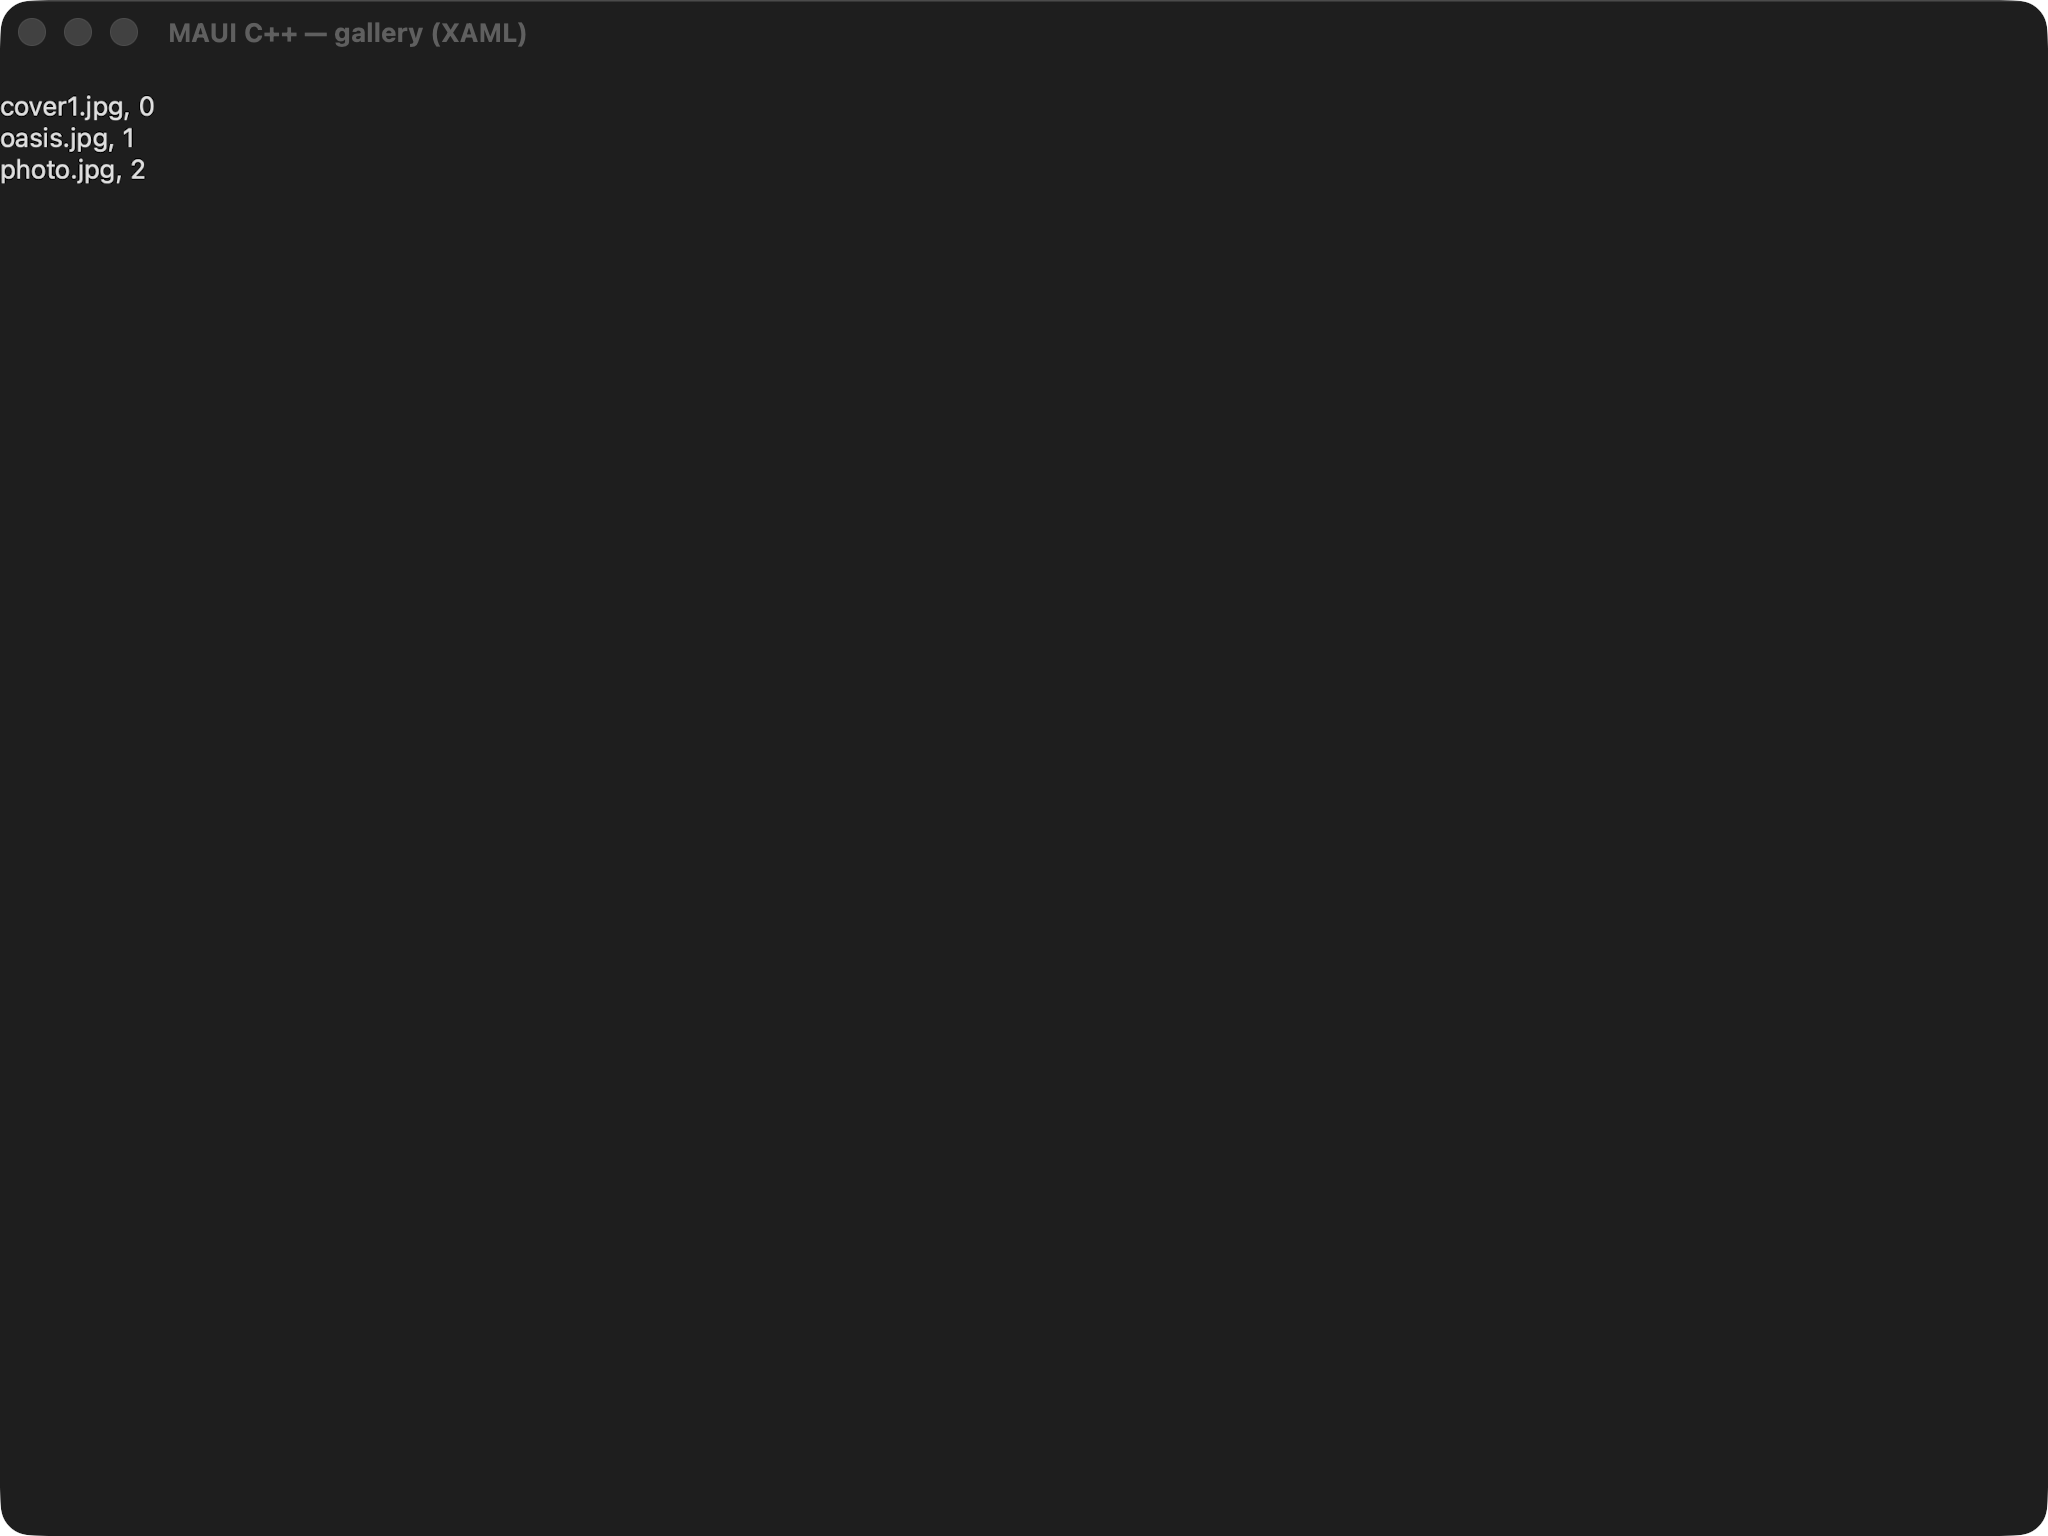
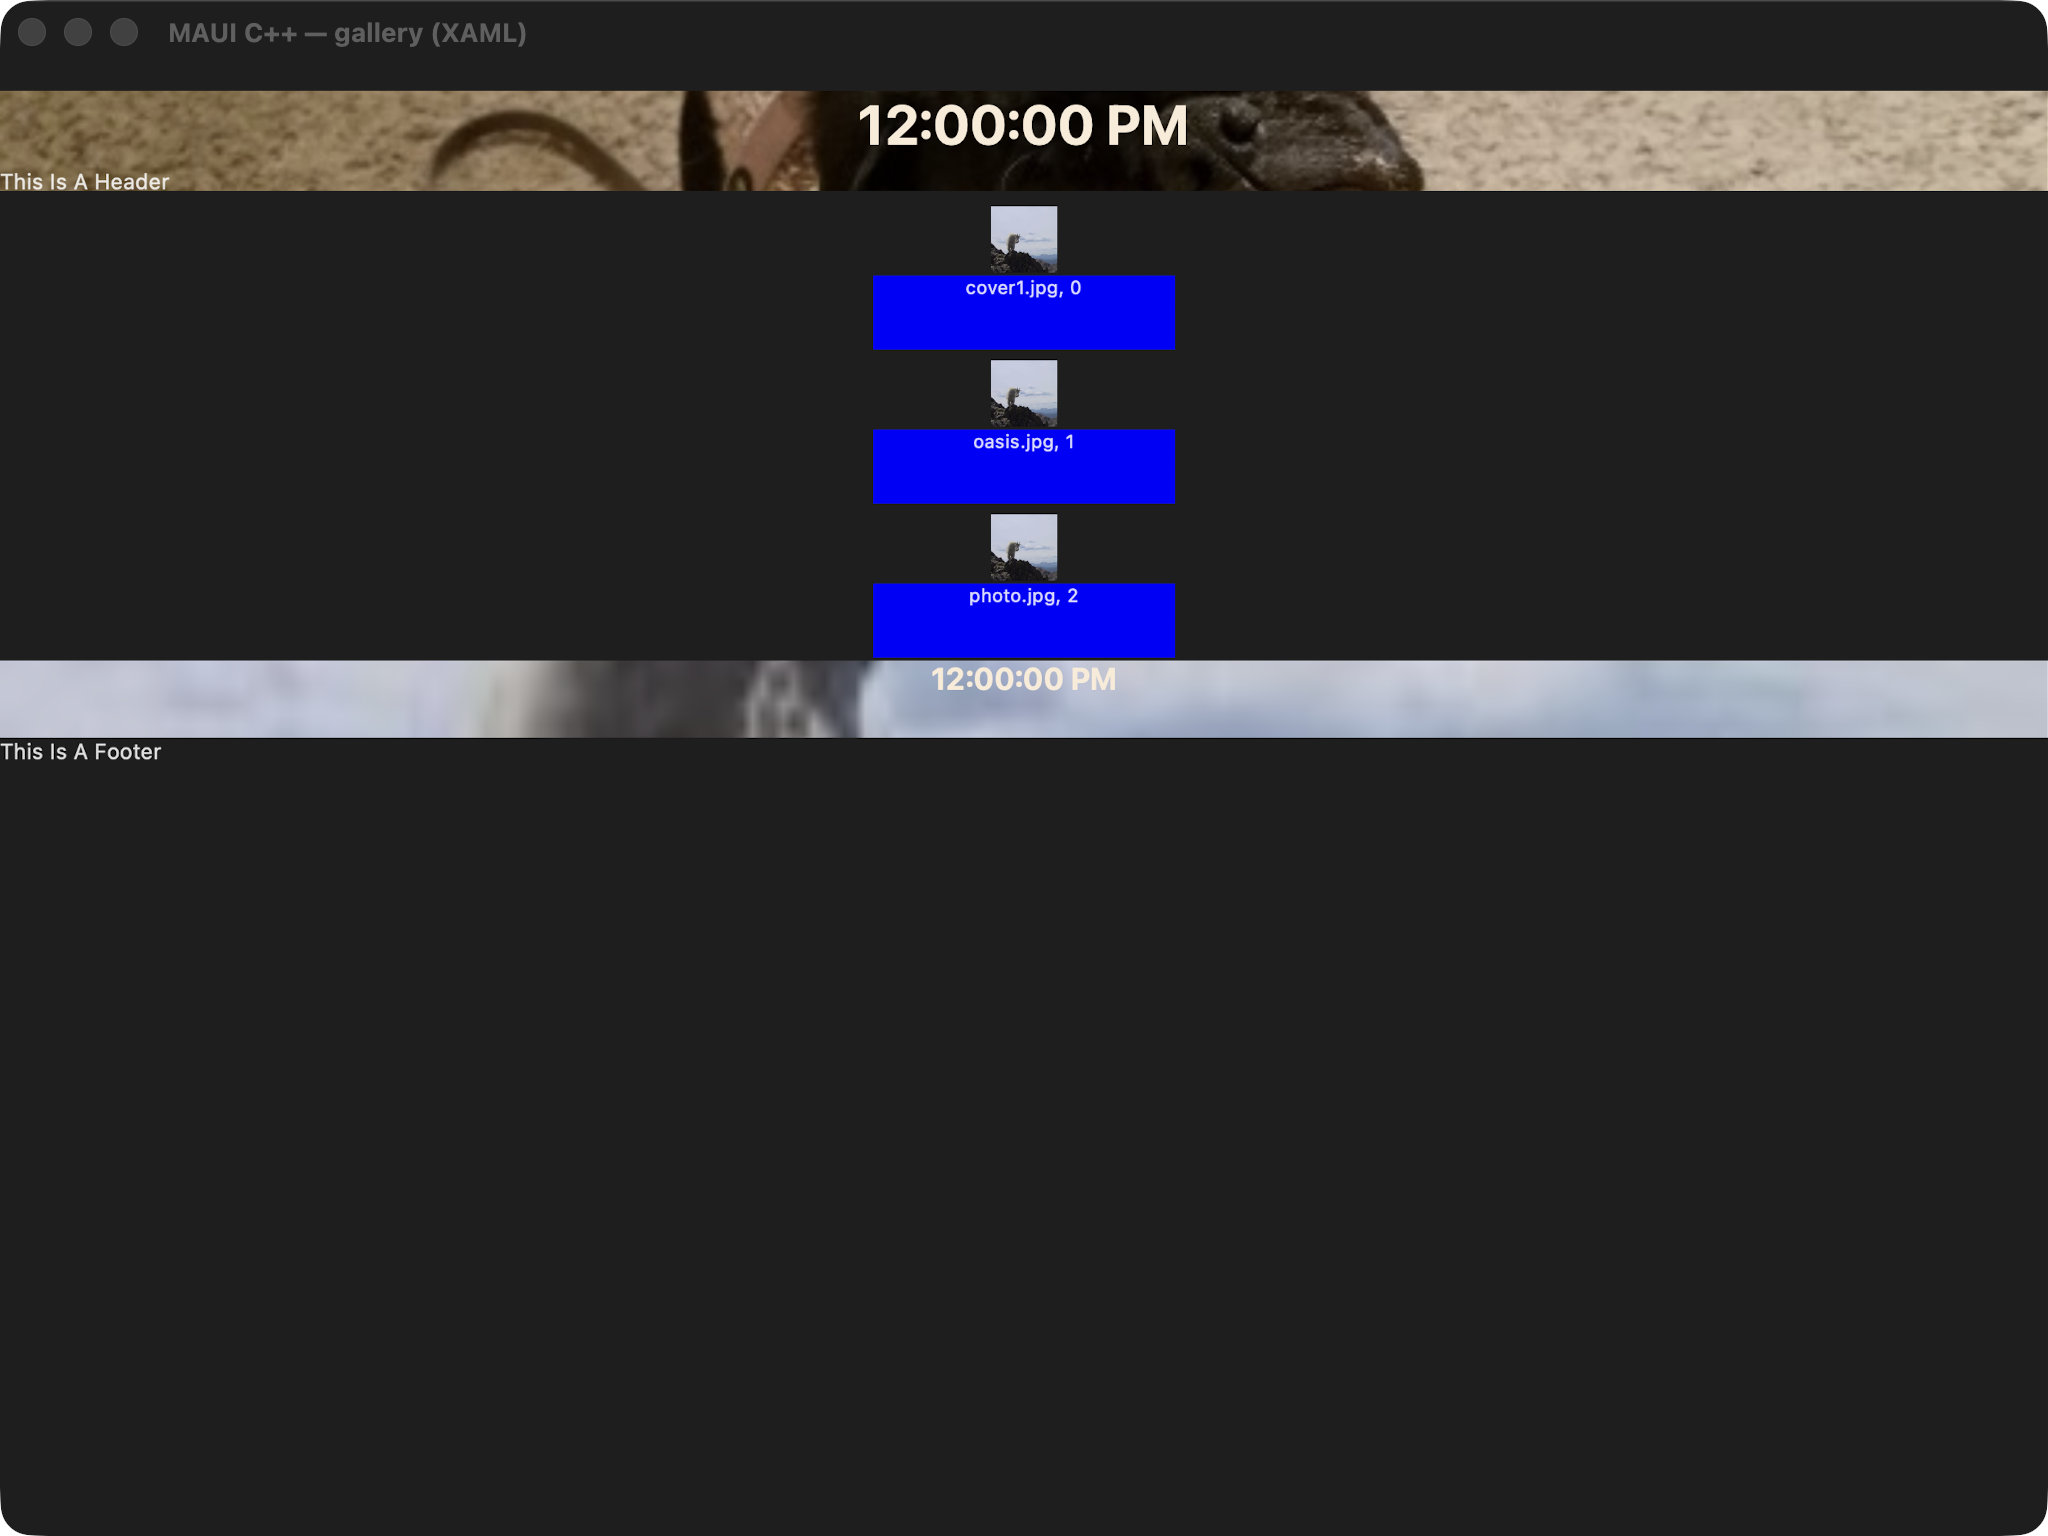
test(xaml): regression coverage for header_footer_template + recapture stale Catalyst PNGs
Investigated the reported header_footer_template bug (CollectionView combining
HeaderTemplate+FooterTemplate+ItemTemplate rendering as a plain unstyled text
list on maccatalyst/xaml). Added loader tests reproducing the exact combination
(bare CollectionView, ContentPage-wrapped, and the real shared-page bytes via
SHARED_PAGES_DIR) — all pass: the runtime loader correctly mints and hydrates
all three DataTemplates independently, including their composite Grid roots.

The actual root cause was already fixed by prior collection_view_handler.mm
(iOS/Catalyst) commits (0ca0346612, 604ed96832, 798512f5bc, 760b8ec90c,
87408bbc4e); the committed captures/maccatalyst/xaml PNGs simply predated that
fix and were never recaptured for this page. Rebuilt gallery_xaml for
maccatalyst and recaptured both themes — header/footer images, times, and
captions, and the templated item cells all now render correctly.

No loader bug found or fixed; this is test coverage + a stale-artifact refresh.

Changed region(s): [[0.0, 0.0312, 1.0, 0.5]]

diff --git a/port/cpp/tests/xaml/loader_tests.cpp b/port/cpp/tests/xaml/loader_tests.cpp
@@ -23,8 +23,11 @@
 #include "maui/xaml/xaml_loader.hpp"
 
 #include <any>
+#include <filesystem>
+#include <fstream>
 #include <functional>
 #include <memory>
+#include <sstream>
 #include <string>
 #include <string_view>
 #include <utility>
@@ -1075,6 +1078,184 @@ namespace
         // still readable after the second stamp exists (no use-after-free / premature teardown).
         EXPECT_EQ(std::dynamic_pointer_cast<controls::label>(first)->text(), "cell");
         EXPECT_EQ(std::dynamic_pointer_cast<controls::label>(second)->text(), "cell");
+    }
+
+    TEST(xaml_loader, collection_view_header_footer_item_templates_all_set)
+    {
+        // Regression for the header_footer_template gallery page: a SINGLE CollectionView combining
+        // HeaderTemplate + FooterTemplate + ItemTemplate (three sibling <DataTemplate> bodies, each
+        // under its own property-element wrapper) must hydrate ALL THREE independently. Before the
+        // fix, only ItemTemplate rendered — Header/FooterTemplate silently failed to mint their
+        // DataTemplate bodies (or all three collapsed onto one template), producing the reported
+        // plain-unstyled-list symptom (no header image/text, no footer image/text).
+        controls::collection_view view;
+        const std::string message = parse_error_message([&] {
+            (void)xaml_loader::load_into(view, R"xml(
+<CollectionView xmlns="http://schemas.microsoft.com/dotnet/2021/maui">
+	<CollectionView.HeaderTemplate>
+		<DataTemplate>
+			<Label Text="header" />
+		</DataTemplate>
+	</CollectionView.HeaderTemplate>
+	<CollectionView.FooterTemplate>
+		<DataTemplate>
+			<Label Text="footer" />
+		</DataTemplate>
+	</CollectionView.FooterTemplate>
+	<CollectionView.ItemTemplate>
+		<DataTemplate>
+			<Label Text="cell" />
+		</DataTemplate>
+	</CollectionView.ItemTemplate>
+</CollectionView>)xml");
+        });
+        EXPECT_EQ(message, "(no xaml_parse_exception thrown)") << message;
+
+        const std::shared_ptr<controls::data_template> header_tmpl = view.header_template();
+        const std::shared_ptr<controls::data_template> footer_tmpl = view.footer_template();
+        const std::shared_ptr<controls::data_template> item_tmpl = view.item_template();
+        ASSERT_NE(header_tmpl, nullptr);
+        ASSERT_NE(footer_tmpl, nullptr);
+        ASSERT_NE(item_tmpl, nullptr);
+        // Distinct data_template instances — no aliasing/collapsing onto a single shared object.
+        EXPECT_NE(header_tmpl.get(), footer_tmpl.get());
+        EXPECT_NE(header_tmpl.get(), item_tmpl.get());
+        EXPECT_NE(footer_tmpl.get(), item_tmpl.get());
+
+        const std::shared_ptr<bindable_object> header_content = header_tmpl->create_content();
+        const std::shared_ptr<bindable_object> footer_content = footer_tmpl->create_content();
+        const std::shared_ptr<bindable_object> item_content = item_tmpl->create_content();
+        ASSERT_NE(header_content, nullptr);
+        ASSERT_NE(footer_content, nullptr);
+        ASSERT_NE(item_content, nullptr);
+        EXPECT_EQ(std::dynamic_pointer_cast<controls::label>(header_content)->text(), "header");
+        EXPECT_EQ(std::dynamic_pointer_cast<controls::label>(footer_content)->text(), "footer");
+        EXPECT_EQ(std::dynamic_pointer_cast<controls::label>(item_content)->text(), "cell");
+    }
+
+    TEST(xaml_loader, content_page_collection_view_header_footer_item_templates_all_set)
+    {
+        // Same combination as above, but wrapped in a ContentPage with the CollectionView as its
+        // content CHILD (the exact shape of the header_footer_template gallery/XAML page, loaded via
+        // build_page<VM, Xaml> -> xaml_loader::load_into(content_page, ...)) rather than loading
+        // straight into a root CollectionView. This is the actual reported-broken code path.
+        //
+        // NOTE: content_page::content() is a NON-OWNING raw i_view* (the caller/XAML graph owns the
+        // child's lifetime — see content_page.hpp). The xaml_load_result returned by load_into() owns
+        // that graph, so it MUST be kept alive for as long as page.content() is used — discarding it
+        // (as an earlier draft of this test did via `(void)load_into(...)`) frees the CollectionView
+        // immediately and leaves page.content() dangling (a use-after-free / crash on inspection, not
+        // a loader bug).
+        controls::content_page page;
+        xaml_load_result result;
+        const std::string message = parse_error_message([&] {
+            result = xaml_loader::load_into(page, R"xml(
+<ContentPage xmlns="http://schemas.microsoft.com/dotnet/2021/maui"
+             xmlns:x="http://schemas.microsoft.com/winfx/2009/xaml">
+	<CollectionView>
+		<CollectionView.HeaderTemplate>
+			<DataTemplate>
+				<Label Text="header" />
+			</DataTemplate>
+		</CollectionView.HeaderTemplate>
+		<CollectionView.FooterTemplate>
+			<DataTemplate>
+				<Label Text="footer" />
+			</DataTemplate>
+		</CollectionView.FooterTemplate>
+		<CollectionView.ItemsSource>
+			<x:Array Type="{x:Type x:String}">
+				<x:String>a</x:String>
+				<x:String>b</x:String>
+			</x:Array>
+		</CollectionView.ItemsSource>
+		<CollectionView.ItemTemplate>
+			<DataTemplate>
+				<Label Text="cell" />
+			</DataTemplate>
+		</CollectionView.ItemTemplate>
+	</CollectionView>
+</ContentPage>)xml");
+        });
+        EXPECT_EQ(message, "(no xaml_parse_exception thrown)") << message;
+
+        auto* view = dynamic_cast<controls::collection_view*>(page.content());
+        ASSERT_NE(view, nullptr);
+        const std::shared_ptr<controls::data_template> header_tmpl = view->header_template();
+        const std::shared_ptr<controls::data_template> footer_tmpl = view->footer_template();
+        const std::shared_ptr<controls::data_template> item_tmpl = view->item_template();
+        ASSERT_NE(header_tmpl, nullptr);
+        ASSERT_NE(footer_tmpl, nullptr);
+        ASSERT_NE(item_tmpl, nullptr);
+        EXPECT_NE(header_tmpl.get(), footer_tmpl.get());
+        EXPECT_NE(header_tmpl.get(), item_tmpl.get());
+        EXPECT_NE(footer_tmpl.get(), item_tmpl.get());
+
+        const std::shared_ptr<bindable_object> header_content = header_tmpl->create_content();
+        const std::shared_ptr<bindable_object> footer_content = footer_tmpl->create_content();
+        const std::shared_ptr<bindable_object> item_content = item_tmpl->create_content();
+        ASSERT_NE(header_content, nullptr);
+        ASSERT_NE(footer_content, nullptr);
+        ASSERT_NE(item_content, nullptr);
+        EXPECT_EQ(std::dynamic_pointer_cast<controls::label>(header_content)->text(), "header");
+        EXPECT_EQ(std::dynamic_pointer_cast<controls::label>(footer_content)->text(), "footer");
+        EXPECT_EQ(std::dynamic_pointer_cast<controls::label>(item_content)->text(), "cell");
+    }
+
+    TEST(xaml_loader, header_footer_template_shared_page_hydrates_all_three_templates)
+    {
+        // The EXACT reported regression: load the real shared-page bytes
+        // (port/maui-reference/pages/header_footer_template.xaml — the same markup gallery_xaml
+        // #embeds via build_page<VM, Xaml>) through the runtime loader and verify all three
+        // DataTemplates (Header/Footer/Item) actually mint distinct, correctly-shaped content — not
+        // just "loads without throwing" (gallery_twin_tests) and not just "structurally present"
+        // (gallery_structure_equivalence_tests treats CollectionView as an opaque leaf and never
+        // inspects its templates at all). ItemTemplate's cell uses {Binding .}, so the runtime
+        // binding applier must be installed first.
+        maui::xaml::register_runtime_bindings();
+
+        const std::filesystem::path page_path = std::filesystem::path(SHARED_PAGES_DIR) / "header_footer_template.xaml";
+        std::ifstream stream(page_path);
+        ASSERT_TRUE(stream.is_open()) << "missing shared page: " << page_path;
+        std::stringstream buffer;
+        buffer << stream.rdbuf();
+        const std::string xaml = buffer.str();
+        ASSERT_FALSE(xaml.empty());
+
+        controls::content_page page;
+        xaml_load_result result;
+        const std::string message = parse_error_message([&] { result = xaml_loader::load_into(page, xaml); });
+        EXPECT_EQ(message, "(no xaml_parse_exception thrown)") << message;
+
+        auto* view = dynamic_cast<controls::collection_view*>(page.content());
+        ASSERT_NE(view, nullptr);
+
+        const std::shared_ptr<controls::data_template> header_tmpl = view->header_template();
+        const std::shared_ptr<controls::data_template> footer_tmpl = view->footer_template();
+        const std::shared_ptr<controls::data_template> item_tmpl = view->item_template();
+        ASSERT_NE(header_tmpl, nullptr) << "CollectionView.HeaderTemplate failed to mint";
+        ASSERT_NE(footer_tmpl, nullptr) << "CollectionView.FooterTemplate failed to mint";
+        ASSERT_NE(item_tmpl, nullptr) << "CollectionView.ItemTemplate failed to mint";
+        EXPECT_NE(header_tmpl.get(), footer_tmpl.get());
+        EXPECT_NE(header_tmpl.get(), item_tmpl.get());
+        EXPECT_NE(footer_tmpl.get(), item_tmpl.get());
+
+        // Each template's body is a Grid with two rows (a cover Image + a bold time Label in row 0,
+        // and a static caption Label in row 1) — a composite root, so create_content() must yield a
+        // Grid, NOT a bare Label/text fallback (the reported symptom was a plain unstyled text list,
+        // i.e. every template silently failing and falling back to item-text mirroring).
+        const std::shared_ptr<bindable_object> header_content = header_tmpl->create_content();
+        const std::shared_ptr<bindable_object> footer_content = footer_tmpl->create_content();
+        const std::shared_ptr<bindable_object> item_content = item_tmpl->create_content();
+        ASSERT_NE(header_content, nullptr);
+        ASSERT_NE(footer_content, nullptr);
+        ASSERT_NE(item_content, nullptr);
+        EXPECT_NE(std::dynamic_pointer_cast<controls::grid>(header_content), nullptr)
+            << "HeaderTemplate body did not hydrate its Grid root";
+        EXPECT_NE(std::dynamic_pointer_cast<controls::grid>(footer_content), nullptr)
+            << "FooterTemplate body did not hydrate its Grid root";
+        EXPECT_NE(std::dynamic_pointer_cast<controls::grid>(item_content), nullptr)
+            << "ItemTemplate body did not hydrate its Grid root";
     }
 
     TEST(xaml_loader, empty_data_template_falls_back_to_label)
